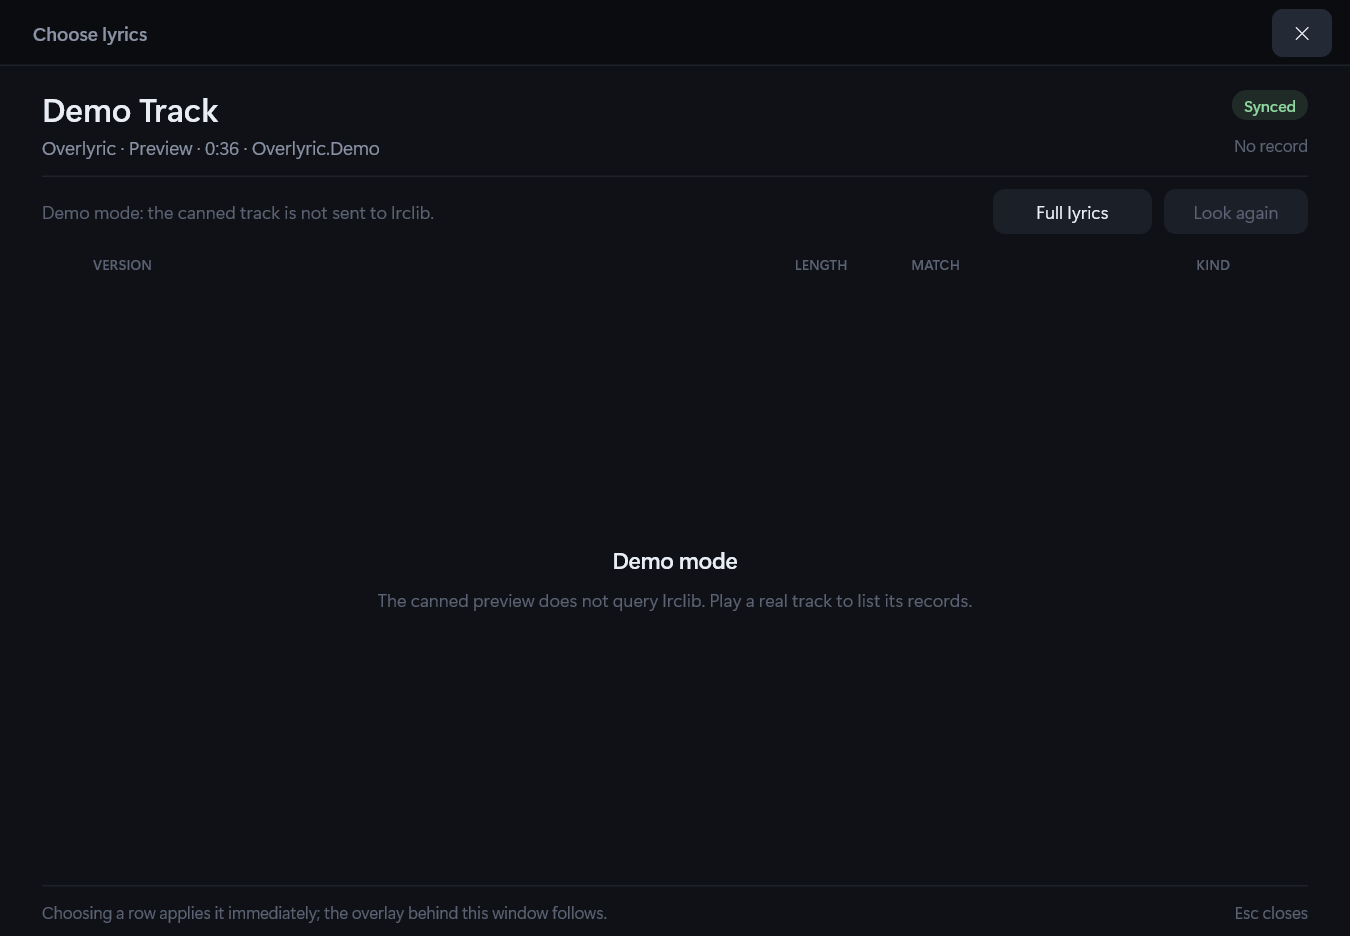
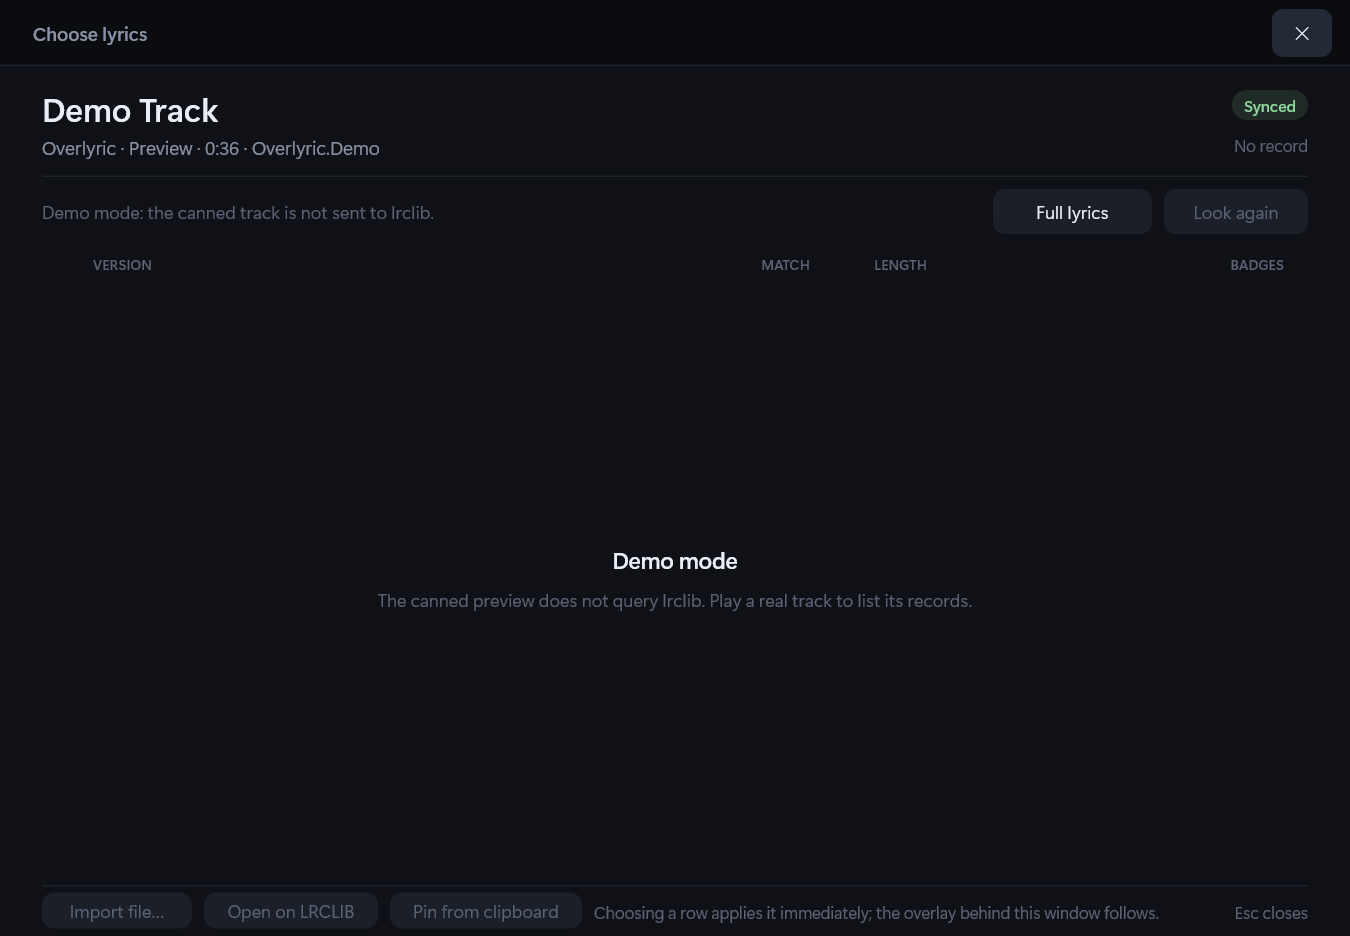
Refresh the lyric windows and Advanced screenshots for the local library
The selector's footer, the sheet's footer and the Advanced section all changed
shape with the local lyric library, so their captures were stale:

- lyric-picker.png now shows Import file..., Open on LRCLIB and Pin from
  clipboard in the footer (dimmed in demo mode, because the canned track is
  not looked up).
- lyric-viewer.png shows the Search LRCLIB / Export... pair and the source
  label in the header.
- settings-advanced.png gains the Local lyric files row with its count, size
  and Open button, next to the cache row it is deliberately separate from.

The measurements move to the 0.4.0-dev6 analysis of 2a8b95f: 37.2 % overall
coverage, 3,658 cyclomatic / 2,178 cognitive complexity over 15,427 ncloc, 0
open issues and a green gate; the twelve probes compile 2,467 lines and cover
2,028 of them (82.2 %); the NativeAOT executable is 9.8 MB. Captures are from
a Debug build of 2eeeb41 (the last commit that touches the UI); only static
modifiers changed after it.

diff --git a/docs/sonarqube.md b/docs/sonarqube.md
@@ -63,11 +63,11 @@ it collected. `SonarQube.Analysis.xml` points the analysis at `coverage/probes.x
 (`sonar.cs.cobertura.reportsPaths`); run the script before `begin`, or the analysis imports nothing.
 `coverage/` is git-ignored.
 
-Measured on 26 October 2026 (analysis 0.4.0-dev1, commit `bc3f4c1`): the eleven probes compile
-2,049 source lines and cover 1,745 of them (85.2 %), and Sonar reports 35.3 % on its combined
-line-and-branch metric (26.0 % line, 80.7 % branch) over the whole project. The rest is the layer
-the probes cannot reach: `AppHost`, the window classes, `Interop\`, `AudioSessions` and the
-DirectComposition host need a desktop session, a real player and a GPU.
+Measured on 27 October 2026 (analysis 0.4.0-dev6, commit `2a8b95f`): the twelve probes compile
+2,467 source lines and cover 2,028 of them (82.2 %), and Sonar reports 37.2 % on its combined
+line-and-branch metric over the whole project. The rest is the layer the probes cannot reach:
+`AppHost`, the window classes, `Interop\`, `AudioSessions` and the DirectComposition host need a
+desktop session, a real player and a GPU.
 
 New code is usually exactly that untestable layer: the 0.3.3 change measured 6.1 % of new-code
 coverage against the default gate's 80 % bar. That is why the project does not use that condition;
@@ -91,9 +91,9 @@ The first full analysis (0.3.1, 49 files) reported 74 open issues: 51 `SYSLIB105
 `LibraryImport` instead of `DllImport`), 6 `S1244` (exact floating-point comparison) and 17 spread
 over `CA1822`, `CA1859`, `CA1806`, `CA1068`, `S6640`, `S1751` and `S8949`. All of them were fixed
 in code - no issue was marked accepted or false positive - and every analysis since then has
-reported 0 open issues and 0 new violations. The 0.4.0-dev1 analysis (26 October 2026) reports
-35.3 % overall coverage against the 30 % floor, no new violations, 3,349 cyclomatic and 1,990
-cognitive complexity over 14,113 non-comment lines, and 122 duplicated lines (0.6 %): a green gate
+reported 0 open issues and 0 new violations. The 0.4.0-dev6 analysis (27 October 2026) reports
+37.2 % overall coverage against the 30 % floor, no new violations, 3,658 cyclomatic and 2,178
+cognitive complexity over 15,427 non-comment lines, and 122 duplicated lines (0.6 %): a green gate
 under `Overlyric`.
 
 ## Agents (DSH)

diff --git a/docs/development.md b/docs/development.md
@@ -82,7 +82,7 @@ rendering over a running full-screen game:
 | Working set | **~65 MB**, flat over 3+ minutes |
 | Private commit | ~99 MB |
 | CPU | **~0.2 s per 150 s** of playback (≈0.15 % of one core) |
-| Executable | 9.7 MB, single file, no .NET runtime installed |
+| Executable | 9.8 MB, single file, no .NET runtime installed |
 | Handles / threads | ~1280 / ~25 |
 
 Getting there took fixing three things that are easy to get wrong, all found by measuring rather than

diff --git a/README.md b/README.md
@@ -128,7 +128,7 @@ Measured on Windows 11, 3840×2160 at 150 % with TIDAL playing over a running ga
 | --- | --- |
 | Working set | ~65 MB, flat over 3+ minutes |
 | CPU | ~0.2 s per 150 s of playback (≈0.15 % of one core) |
-| Executable | 9.7 MB, single file, no .NET runtime installed |
+| Executable | 9.8 MB, single file, no .NET runtime installed |
 | Handles / threads | ~1280 / ~25 |
 
 ```powershell
